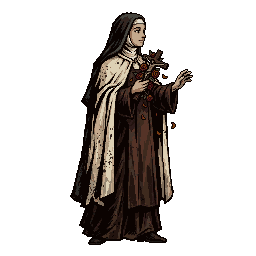
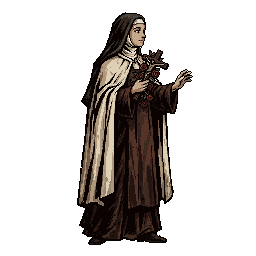
T64: Asmodeu, Vertigem e Minos; Teresinha do consultor (D-374)
Claude-Session: https://claude.ai/code/session_01DUWuf1MY7TDBnv5g3pMndM

diff --git a/docs/memory/lessons.md b/docs/memory/lessons.md
@@ -64,6 +64,9 @@ Fluxo que funciona (`tools/art/process_frames.py` + `animation_clips.csv` + `ani
 12. **Nunca cortar a saída da ferramenta com `| head`:** o processo morre no meio e deixa `.tres` velho com folha nova (quadros desalinhados). Redirecione para arquivo e leia o fim.
 13. **Vídeo que pisca:** a média temporal borra (reprovada, D-253) e a média só no que muda pouco não ajuda. O que funciona: segurar poucos quadros nítidos do próprio vídeo e fundir entre eles (`keys=`, `hold=`, `tween=`, D-344). O Meta AI não serve para poses de personagem complexo (perde a fidelidade e gera vídeo, D-254).
 
+- **PixelLab (T64):** a galeria se lê de graça pelo servidor de agentes (`tools/call` de `list_images` e `get_image` em `https://api.pixellab.ai/mcp`, cabeçalho `Authorization: Bearer proxy-injected`); o `get_image` devolve um link assinado da folha inteira (grade de 256). As peças que Alan gera no site não vêm na paleta: a entrada as leva para ela. O arco branco dos golpes rápidos deixa pontinhos na cor da barba, que não saem por cor: use a pose final.
+- **Sessão retomada mata a compilação do Godot:** o `setup_godot.sh` fica preso na trava. Apague `~/.cache/godot-4.7.2/building` e rode o script de novo.
+
 ## Dados
 
 - Antes de criar uma constante nova, procure em `constants.csv`: na T20 quase entrou `map_generation_attempts`, mas `map_generation_retries` já existia.

diff --git a/docs/backlog/m2.md b/docs/backlog/m2.md
@@ -83,8 +83,8 @@ A arte passa a ser pixel art gerada no PixelLab (`docs/fable/06-rumo-pixel.md`).
 - **Aceite:** Alan aprova o PR.
 
 ### T64 · Entrada dos clipes do PixelLab (novo, D-367, D-368)
-- [ ] Em `tools/art/`: importar um clipe do PixelLab para `CharacterFrames`; conferir tamanho, grade e paleta; alinhar os pés; **apagar o arco branco** e pixels soltos (D-368); guardar o ponto da auréola de cada personagem.
-- [ ] Trazer as peças aprovadas do piloto (`docs/fable/piloto-pixel/`) para o jogo por ela, com teste.
+- [x] Em `tools/art/` (`import_pixel.py`, tabelas `pixel_clips.csv` e `pixel_characters.csv`): importar um clipe do PixelLab para `CharacterFrames`; conferir tamanho, grade e paleta; alinhar os pés; **apagar o arco branco** e pixels soltos (D-368); guardar o ponto da auréola de cada personagem.
+- [x] Trazer as peças aprovadas do piloto (`docs/fable/piloto-pixel/`) para o jogo por ela, com teste; também Asmodeu, Vertigem e Minos da galeria de Alan (D-374). Ficam em `scenes/battle/combatants/pixel/`; o jogo passa a usá-los na T65.
 - **Aceite:** Bento, Jorge, Teresinha, Diabo de Lodo e Sombra entram no jogo pela ferramenta; testes passando.
 
 ### T65 · Tela interna de 960 × 540 (novo, D-367; refaz parte da T36)
